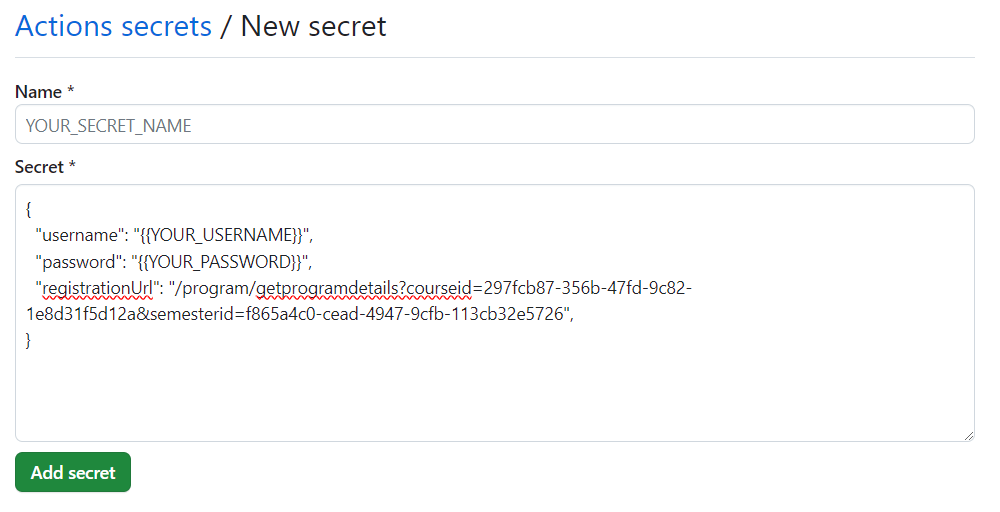
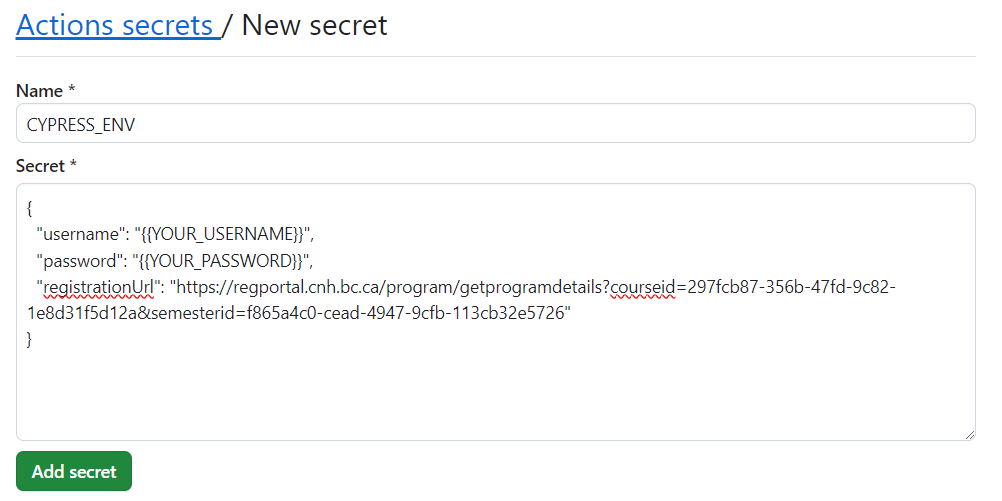
Remove baseUrl and use full url for registrationUrl secret

diff --git a/cypress/support/commands.ts b/cypress/support/commands.ts
@@ -10,7 +10,7 @@ Cypress.Commands.add("cnhLogin", (username: string, password: string) => {
   cy.session(
     username,
     () => {
-      cy.visit("/");
+      cy.visit("https://regportal.cnh.bc.ca");
       cy.contains("Sign In").click();
       signInForm.usernameInput().type(username);
       signInForm.nextButton().click();
@@ -20,7 +20,7 @@ Cypress.Commands.add("cnhLogin", (username: string, password: string) => {
     },
     {
       validate() {
-        cy.visit("/");
+        cy.visit("https://regportal.cnh.bc.ca");
         cy.get("div[class='userActionsDropdown']").contains(username);
       },
     }

diff --git a/cypress.config.ts b/cypress.config.ts
@@ -10,6 +10,5 @@ export default defineConfig({
         },
       });
     },
-    baseUrl: "https://regportal.cnh.bc.ca",
   },
 });

diff --git a/README.md b/README.md
@@ -16,7 +16,6 @@ The registration script can also be run locally to register, provided you start 
 1. Run `npm install`
 2. Create and fill in `cypress.env.json`.
    - Required parameters are in `example.env.json`
-   - Note that `registrationUrl` should include everything after `https://regportal.cnh.bc.ca`. For example, `/program/getprogramdetails?courseid=297fcb87-356b-47fd-9c82-1e8d31f5d12a&semesterid=f865a4c0-cead-4947-9cfb-113cb32e5726`
 3. Run `npm run cypress:run`
    - This can be run up to 24 hours in advance of the registration time.
    - WARNING: If your computer goes to sleep or shuts off before the registration time the script will stop running and you will be unable to register
